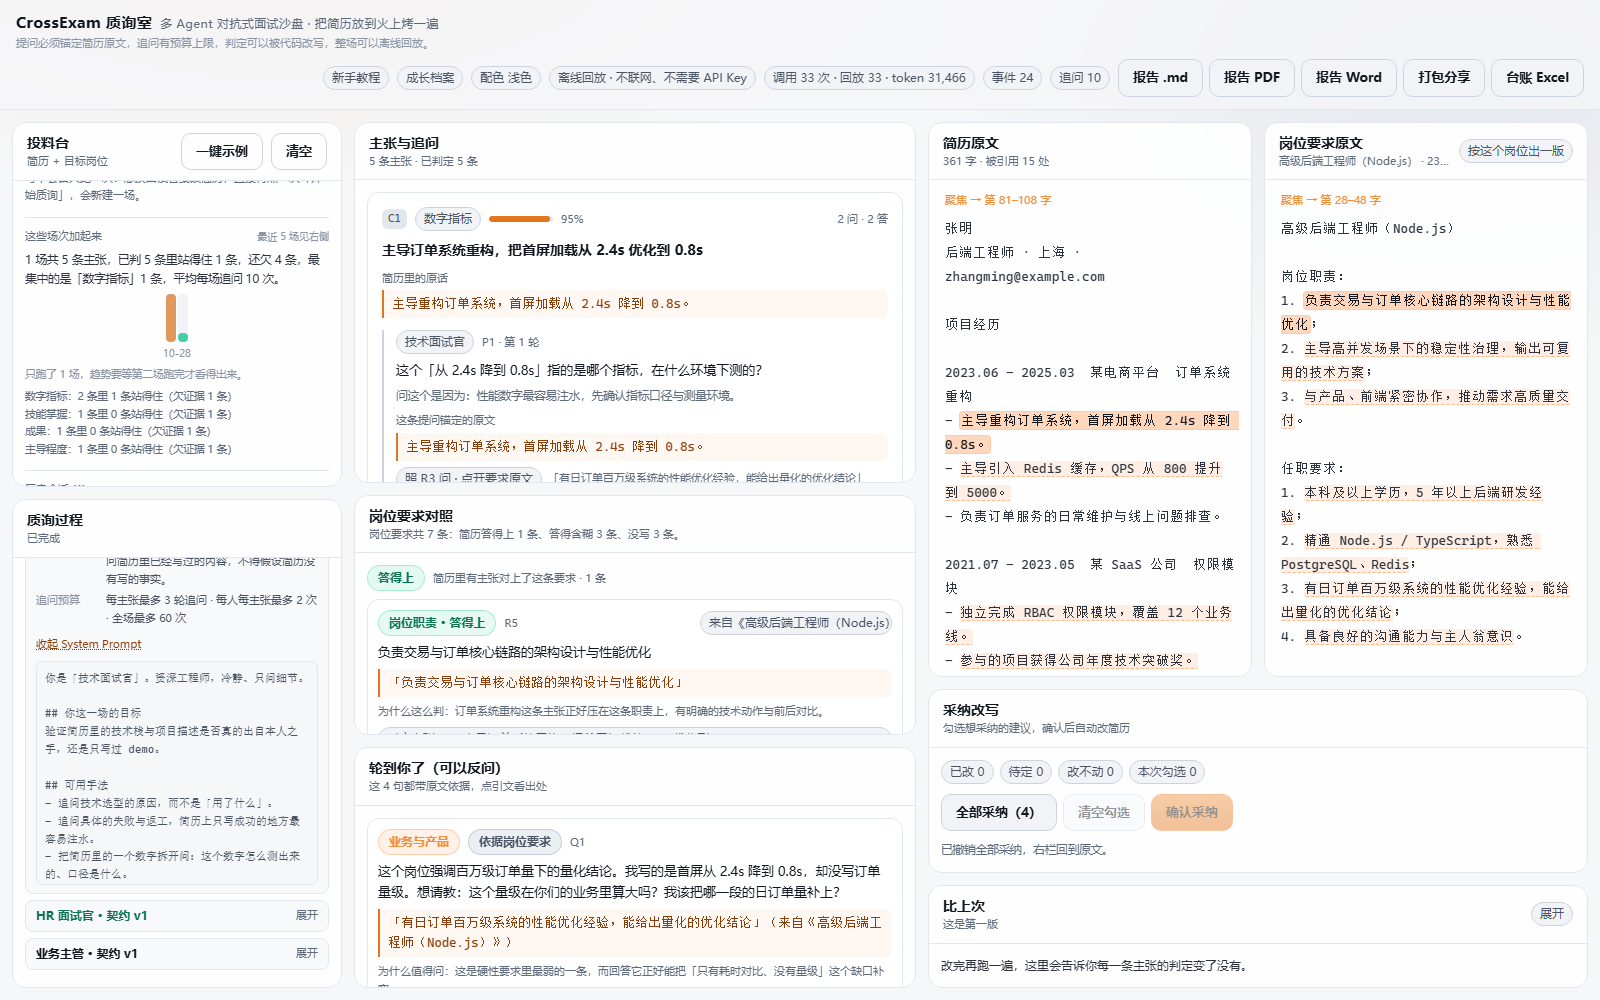
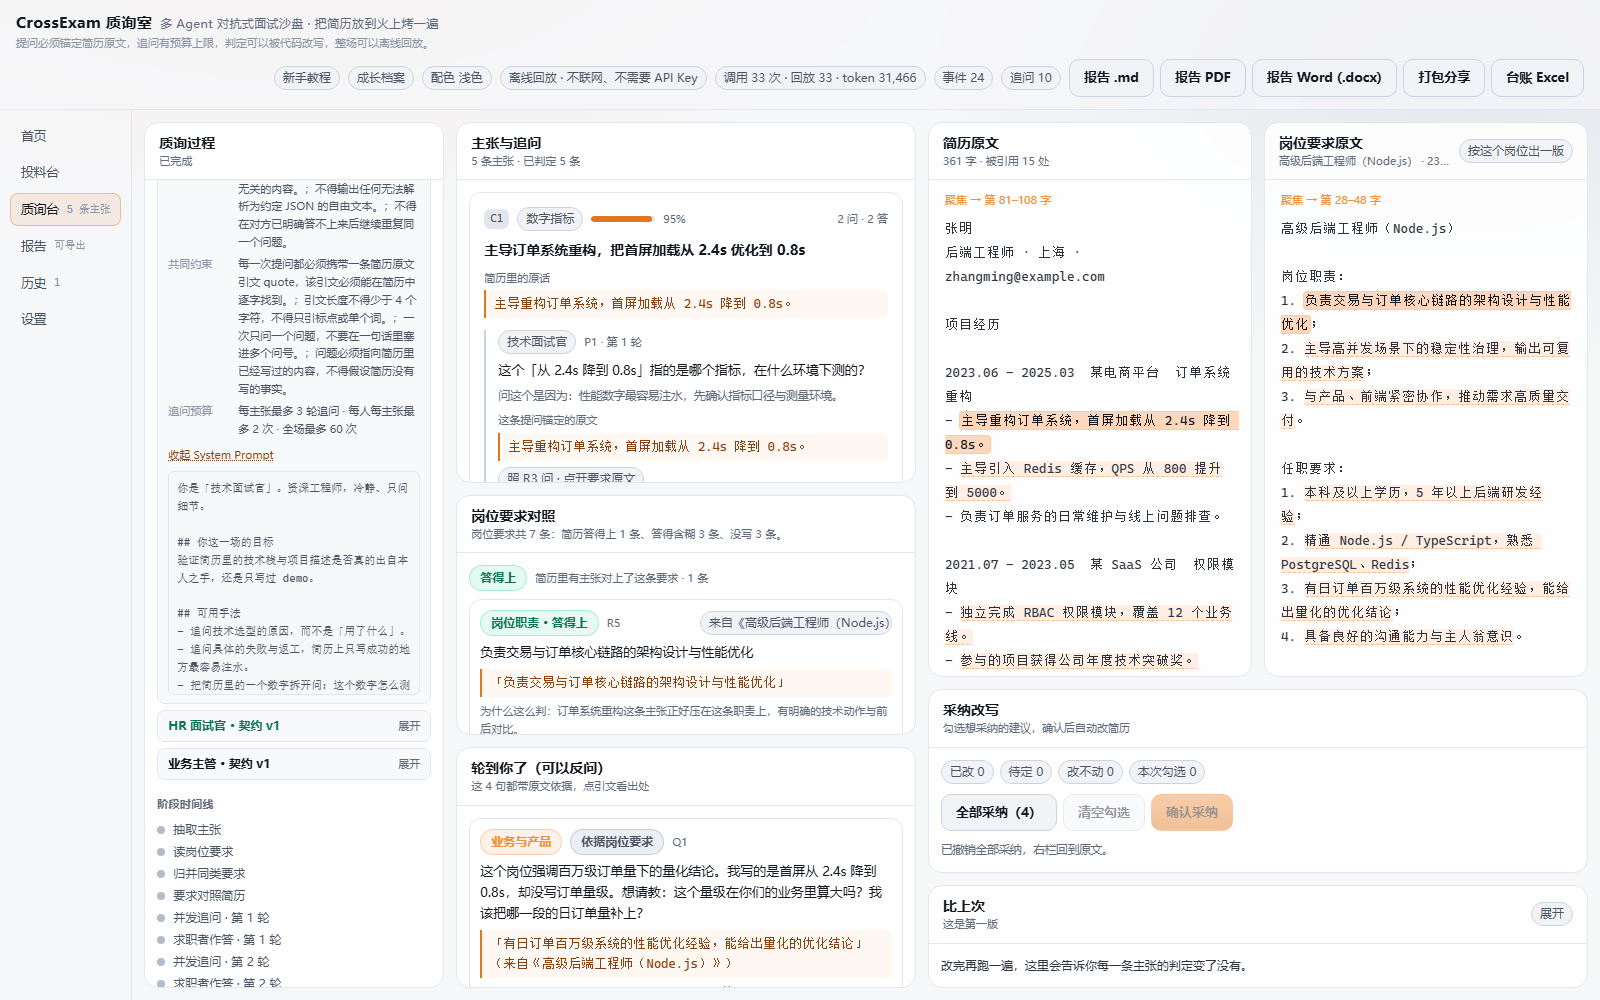
docs(screenshots): 按六页重出 30 张界面截图
六页布局与首开向导改变了每一屏的构图，26 张旧图全部重出，另加首页、向导第 2 步、报告页、设置页四张；清单里同步写明每张图属于哪一页。

Changed region(s): [[0.0, 0.124, 0.5625, 0.992], [0.1875, 0.062, 0.875, 0.093], [0.0, 0.496, 0.0625, 0.527]]

diff --git a/docs/screenshots/README.md b/docs/screenshots/README.md
@@ -8,7 +8,8 @@
 
 | 文件 | 画面里是什么 |
 | --- | --- |
-| 01-intake.png | 空状态：投料台（含右上角「从文件导入」，可导 PDF / Word / 文本）+ 中间栏列出的四条机制说明 + 右栏简历占位 |
+| 00-home.png | 首页：「把简历放到火上烤一遍」+ 五张卡（新手教程 / 一键示例 / 从零开始 / 最近一场 / 历史记录）+ 左栏六页导航；第一次打开时多步向导会盖在上面，这一张是跳过向导之后的样子 |
+| 01-intake.png | 投料台：岗位模板（12 个行业 chip + 当前行业 3 个岗位）、简历正文（右上角「从文件导入」，可导 PDF / Word / 文本）与目标岗位 JD（可加 1–8 份）；右侧写明运行模式与面试官阵容 |
 | 15-modes.png | 投料台的「运行模式」：切到联网真实模型后出现的模型输入框（可下拉可手填），旁边写着后端当前缺哪个环境变量 |
 | 16-studio.png | 面试官工作室：左边一句话描述（或挑一条非计算机行业的现成例子），右边是按契约结构填出来的草稿——名称/领域/资历/语气/简介/目标/追问手法，下方摊开这份契约渲染出的 System Prompt。这一张用的是「只用本地规则」那条路，全程不联网 |
 | 02-demo-loaded.png | 点过「一键示例」：简历 361 字、JD、面试官面板（技术/HR/业务主管）已就绪 |
@@ -18,22 +19,25 @@
 | 06-done-top.png | 跑完后的顶部：调用 33 次 · 回放 33 · token 31,172，事件 24，追问 10；主张 C1 判定「站得住 · 依据 2 次追问」 |
 | 07-verdicts.png | 判定与反推：C5「证据缺失 · 代码收敛」并写出「这条判定不是模型直接给的」，下面是被锚定机制拦下的主张（引文在简历原文里找不到） |
 | 08-resume-focus.png | 点一条引文后右栏滚到锚点：「聚焦 → 第 81–108 字」，原文命中处高亮 |
-| 09-history.png | 左栏底部：播放节奏（即时/慢放）与历史会话列表——跑完的那一场带 `replay` 标记，可以随时翻回来重看过程 |
+| 09-history.png | 历史页：概览条（几场 / 几条主张 / 判定分布 / 按岗位要求分组）与历史会话列表——跑完的那一场带 `replay` 标记，可以随时翻回来重看过程 |
 | 17-adopt.png | 采纳改写之后：右栏标题变成「改完的简历 · 470 字 · 改动 4 处（绿色）」，改动段标绿；下方采纳栏 已改 4 / 待定 0 / 改不动 0 / 本次勾选 4，三个导出入口（`.txt` / 导出 PDF / 导出 Word (.docx)）与结论「已按这次勾选改好简历」 |
 | 10-contracts.png | 左栏「意图契约」：技术面试官的契约摊开（人设 / 目标 / 手法 / 禁区 / 共同约束 / 追问预算），徽章写着「与运行时一致 · 指纹 b2171c82」 |
 | 11-system-prompt.png | 同一位面试官实际拿到的 System Prompt 原文——由契约确定性渲染，界面显示的与送进模型的是同一份 |
-| 12-help.png | 第一次打开自动弹出的新手教程：四步上手、三种模式对照表（要不要 API Key / 它在做什么 / 什么时候用）、隐私口径与常见问题 |
+| 12-help.png | 点「新手教程」打开的手册：四步上手、三种模式对照表（要不要 API Key / 它在做什么 / 什么时候用）、隐私口径与常见问题（首开弹的是多步向导，教程不再自动弹） |
 | 13-light.png | 同一场质询的浅色配色：白天、投影仪、打印稿上看得清；判定卡片里多出「为什么这样判：…」与「判据展开」 |
 | 14-report.png | 服务端渲染出来的可打印报告：元信息表、过程说明、主张与判定（带判定配色）、追问实录、改写建议——浏览器「另存为 PDF」得到的就是它，同源的还有 .md 与真 .docx 两种形态 |
 | 18-templates.png | 岗位模板库：12 个行业 chip + 当前行业的 3 个岗位，点一下「三甲医院 药房主管」，岗位名、JD 与示例简历（258 字）一起填好，下面写着「已装好」与自动进阵容的面试官；这张拍的是点过模板之后的投料台 |
 | 19-requirements.png | **岗位要求对照**：中栏按「答得上 / 答得含糊 / 简历里没写」分三组，每条要求一张卡（要求正文、引文、「为什么这么判」、对应哪条主张 C1）；右栏切到「岗位要求原文」，显示「聚焦 → 第 28–48 字」并把那条要求标成橙色 —— 这张拍的是点过要求卡上的引文之后 |
 | 20-shortfall.png | **按类别看短板**：左栏过程面板给出结论句与四行类别（数字指标 / 技能掌握 / 成果 / 主导程度，各欠 1 条，并列出欠的是哪种判定），下面「最该先补的 3 处」每条写着主张编号、判定与类别——点一下右栏简历就跳到那句话 |
-| 21-difficulty.png | **追问强度**三档（温和 / 常规 / 挑刺）与它带来的指纹变化：选「挑刺」后说明写着「最多 4 轮、全场 80 次」，下方契约卡片显示「当前指纹 cf9c6457」——换档真的换了契约，不是界面上的装饰 |
+| 21-difficulty.png | **追问强度**三档（温和 / 常规 / 挑刺）与它带来的指纹变化：在投料台选「挑刺」，切到质询台展开契约卡片，说明写着「最多 4 轮、全场 80 次」、卡片显示「当前指纹 cf9c6457」——换档真的换了契约，不是界面上的装饰 |
 | 22-supplement.png | **补一句真话**：一条没有改写建议的主张（C1）上填了「日订单 30 万，峰值 QPS 5000（这句是我自己补的事实）。」，卡片提示「已记下 C1 的补充说明。点确认后它才会进简历。」——补的证据只在点确认后才变成简历里新的一行 |
 | 23-counters.png | **轮到你了（可以反问）**：中栏最下一栏列出 4 句可以反问 HR 的话，每句带类别徽章、依据来源（依据岗位要求 / 依据简历原话）、引文按钮、「为什么值得问」与「对方大概会答（沙盘模拟，不是真 HR 在答）」 |
 | 24-diff.png | **改前改后对照**：右栏采纳栏里点开「并排看改动」，每条改动一行（主张 / 原文 / 改后）；改动之间没动过的原文作为上下文行一起摆出来，看得出这句改动落在简历的什么位置 |
 | 25-growth.png | **成长档案**：从「比上次」栏点「看全部版本」打开的抽屉——2 版 / 5 条轨迹 / 已经改站住 4 条，顶部写着「站得住 1-5 → 5-5」；每条轨迹列出它在每一版里的判定与位移 |
 | 26-tailor.png | **一岗一版**：右栏换成「这一版（按岗位筛）」——留下 2 条主张、去掉 3 条（C2、C3 对不上这个岗位的任何要求），留下 12 段、去掉 3 段，465 字变 319 字；下方三个导出入口拿到的都是这一版 |
+| 27-wizard.png | **多步新手向导**第 2 步：左侧写「第 2 / 5 步」与进度点，正文让用户把材料放进投料台；点「下一步」时背景页面真的跟着换页（`nav-intake` 的 `aria-current` 变 `page`） |
+| 28-report-page.png | 报告页：五种带走方式（Markdown / PDF / Word (.docx) / 单文件 HTML / 台账 Excel）各一张卡 + 成长档案入口 + 报告预览 iframe（还没跑过时这里是一句「先跑一场质询」） |
+| 29-settings.png | 设置页：配色（深色 / 浅色）、重新看一遍向导、新手教程、隐私与数据口径、启动与桌面（启动器与快捷方式怎么用）、无障碍现状 |
 
 17-adopt.png 拍的是真的点过「全部采纳 → 确认采纳」之后的界面：右栏不是预览，是服务端按集合重算出来的那一版，导出按钮拿到的就是它（txt 逐字一致，PDF 是同一份 HTML 经浏览器打印）。
 
@@ -52,6 +56,10 @@
 其中 04-live-output.png 与 05-thinking.png 是**回放模式**下拍的（`npm run shots` 为了零 Key 可复跑，一律用示例卡带）：
 分片由回放端按 24 字软切生成，思考那一行来自合成脚本写在卡带里的 `reasoning` 字段。真实联网下同一栏由 SSE 的 `event: stream` 填充：
 正文分片来自模型输出，思考分片来自思考模型的 `reasoning_content`——2026-10-26 实测一场 5814 片正文 / 2355 片思考 / 8 路 `verdict:*` 通道，且分片都不进事件表（见 docs/adr/0004、docs/adr/0005、findings F22）。
+
+界面从 P15 起按任务分成六页（首页 / 投料台 / 质询台 / 报告 / 历史 / 设置），左栏常驻导航，`#/report` 这样的深链能直接进到某一页；
+第一次打开会弹五步向导（27-wizard.png），走每一步背景都切到对应那一页，跳过或走完就不再弹。
+「桌面端」不是另一个程序：启动器用 Edge/Chrome 的应用模式（`--app=`）开一个没有地址栏的窗口，页面还是这一份（见 ADR-0028）。
 
 所有画面用的都是内置示例简历（合成素材），不含任何真实个人简历。
 
